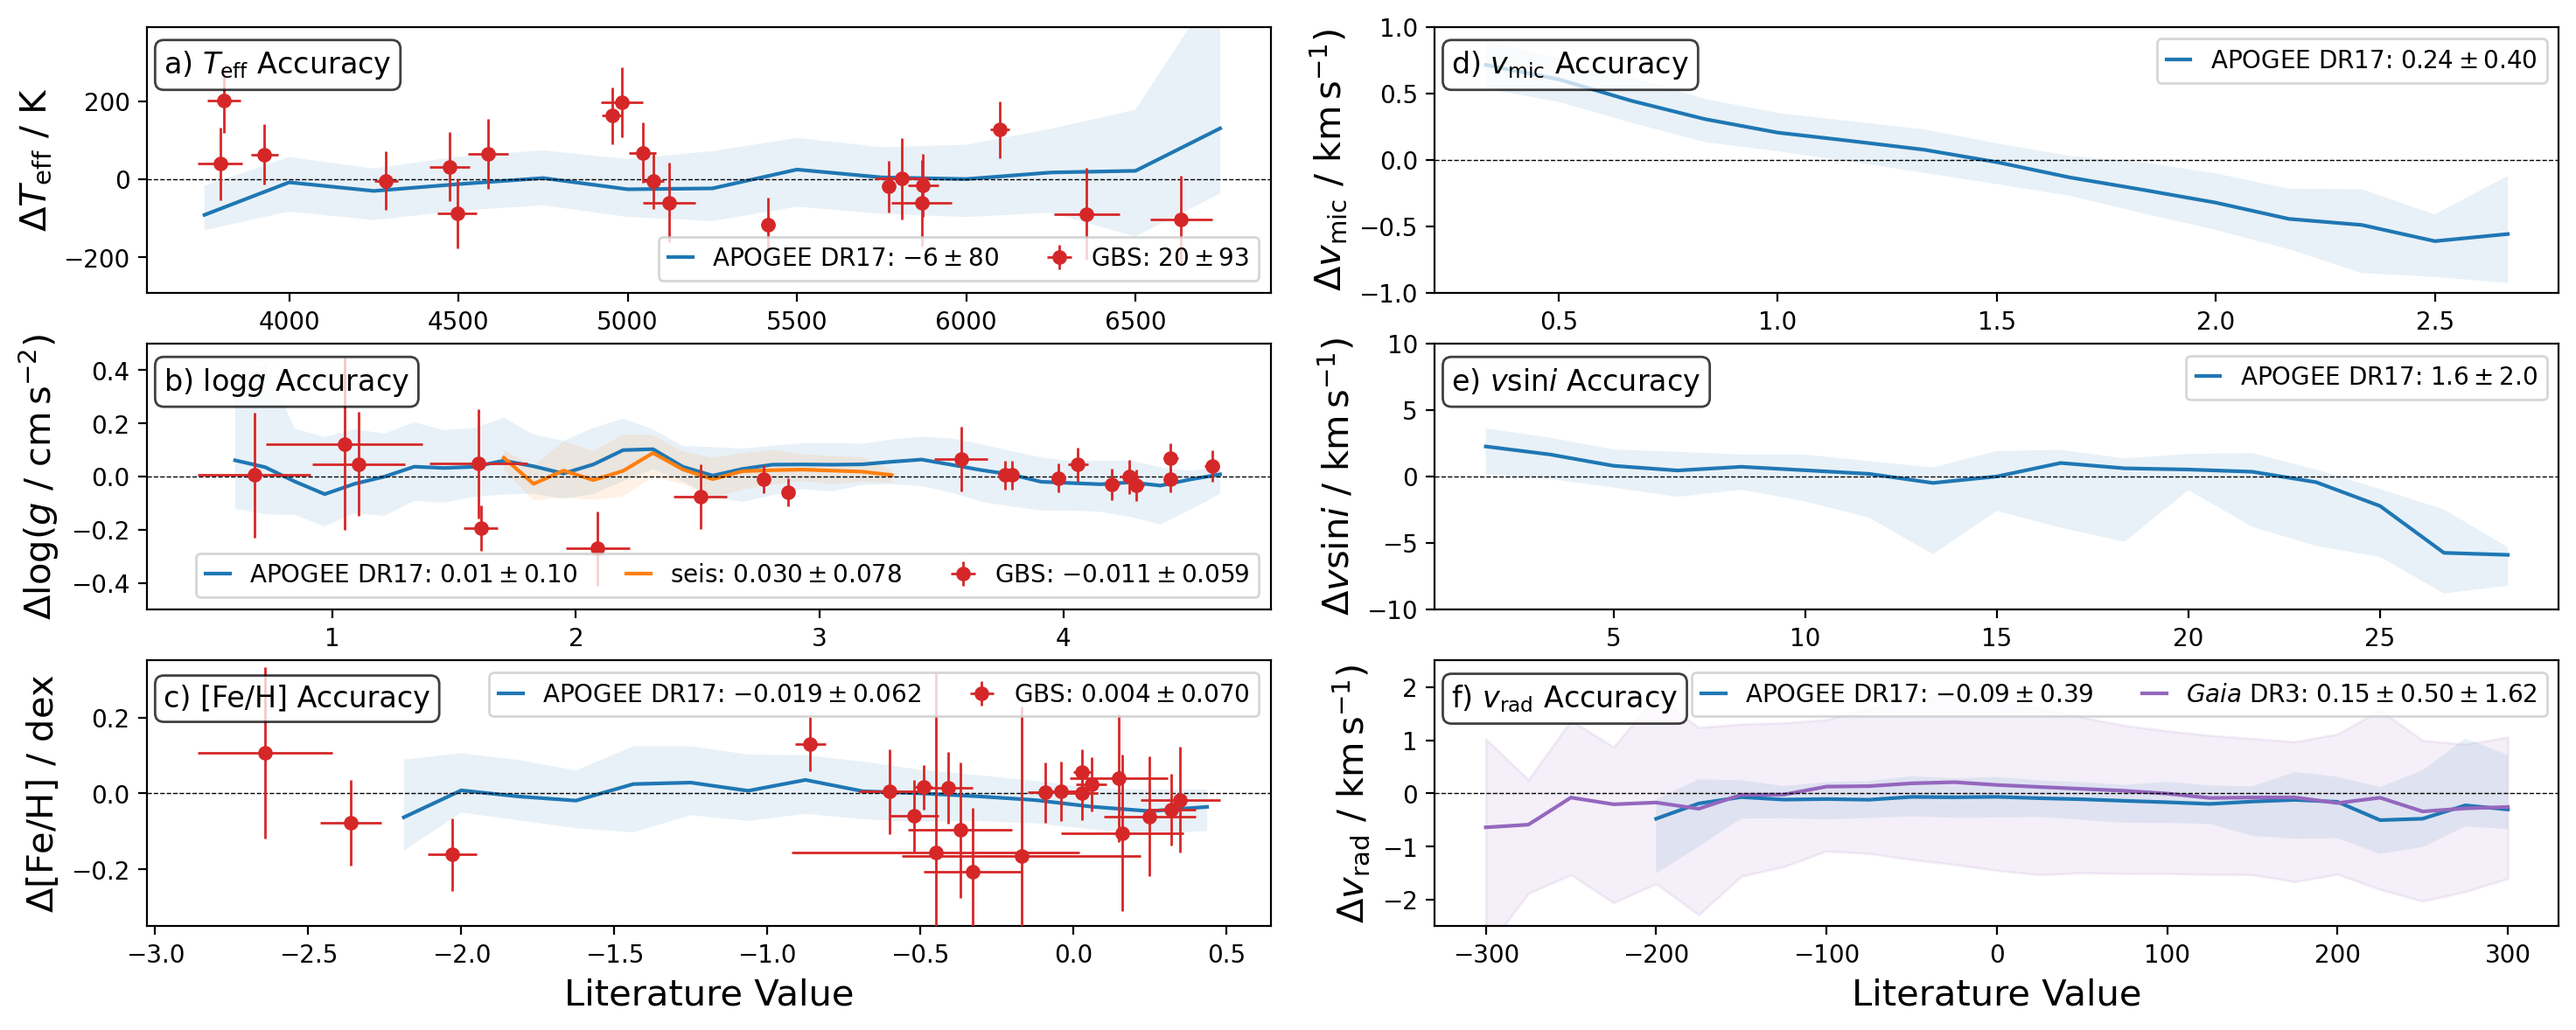
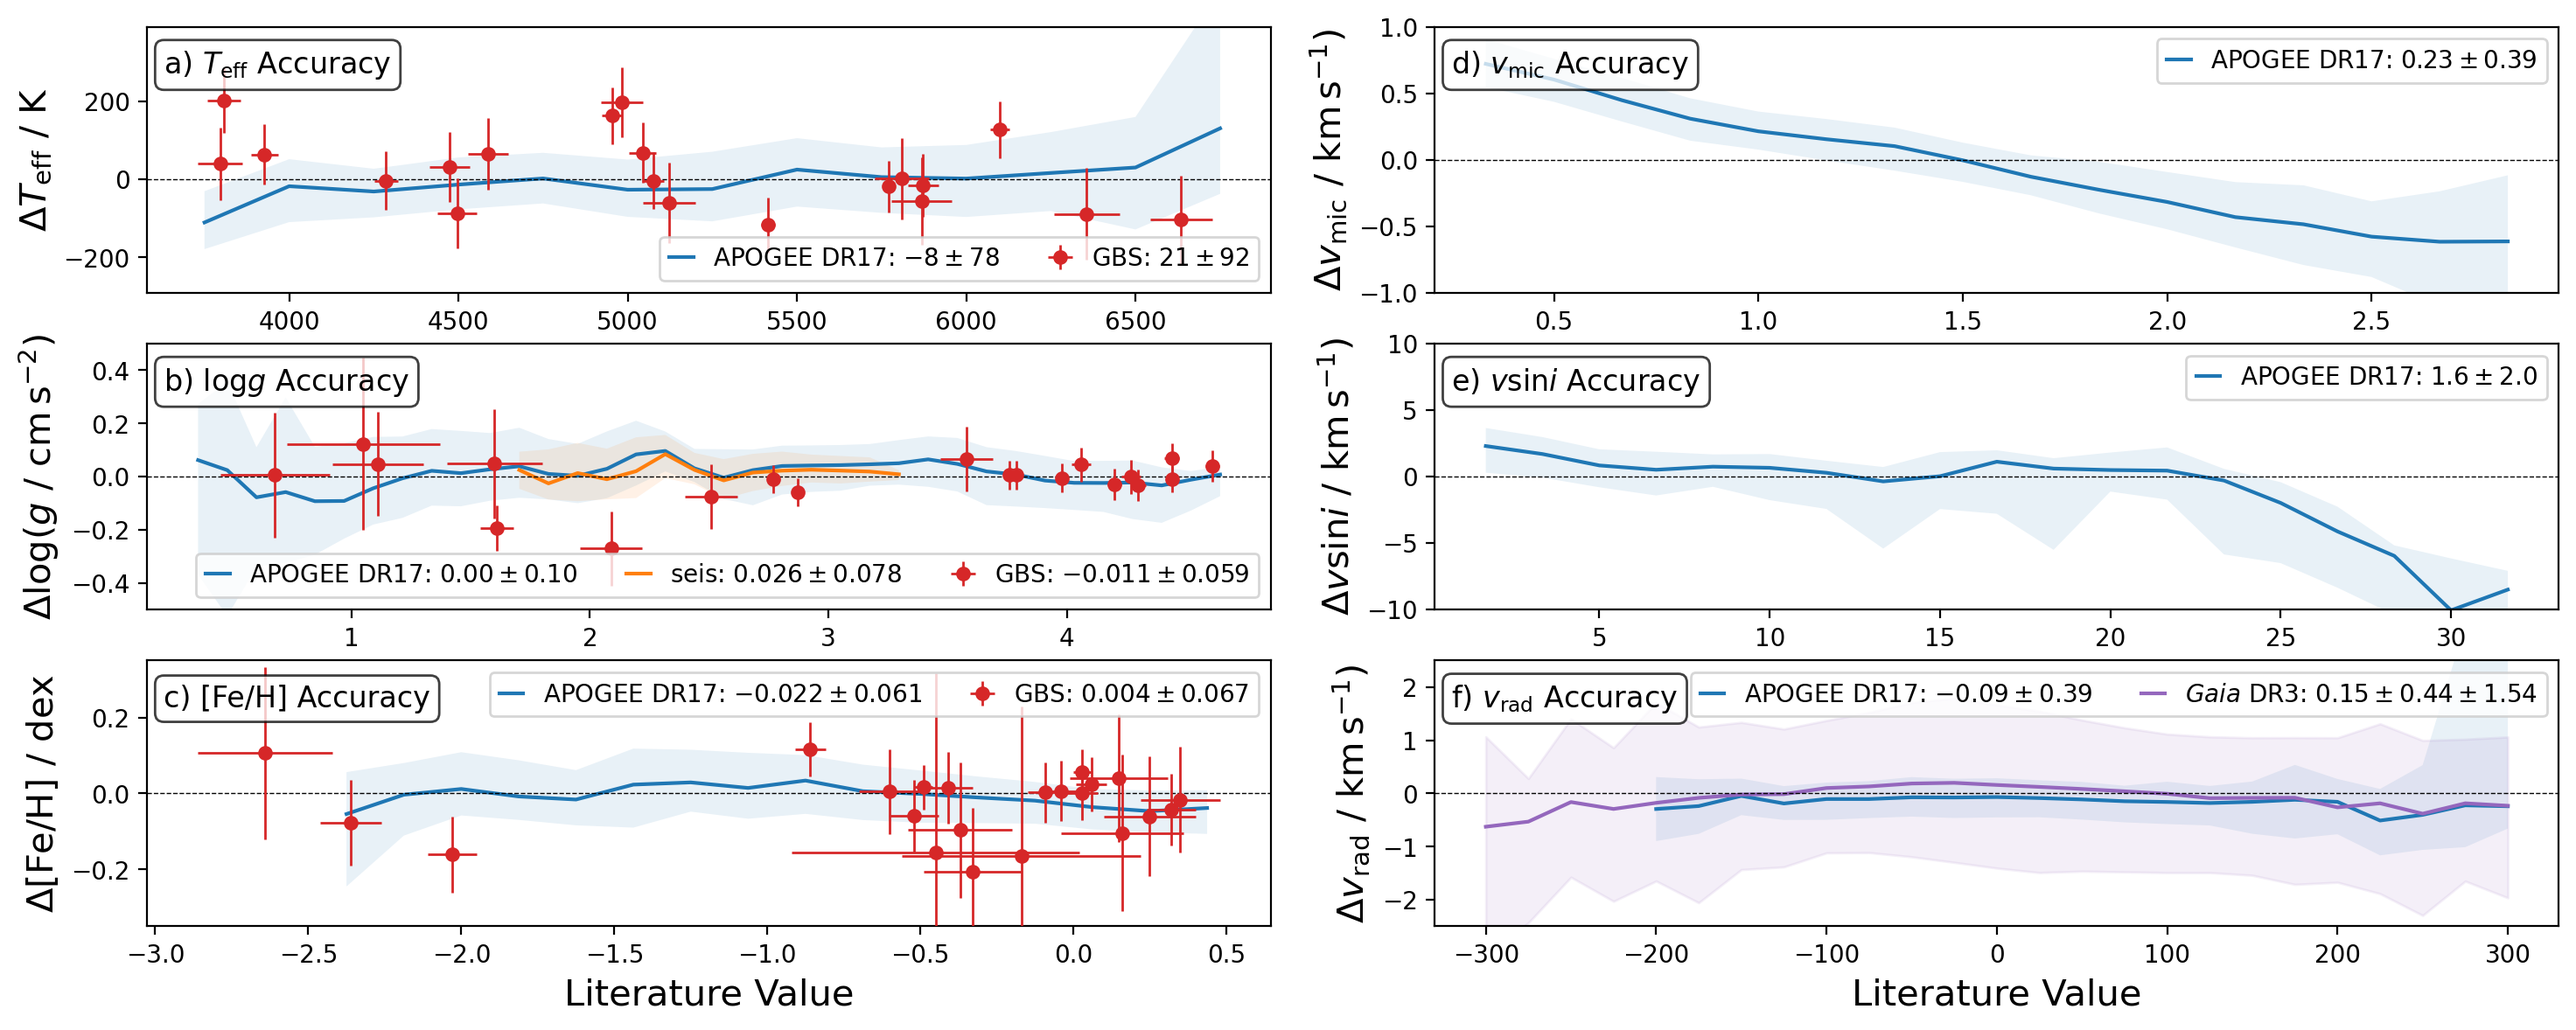
Updates from Overleaf

diff --git a/galah_dr4_paper.tex b/galah_dr4_paper.tex
@@ -67,13 +67,63 @@
 \title{The GALAH Survey: Data Release 4}
 
 \author{S. Buder}
-\affiliation{Research School of Astronomy \& Astrophysics, Australian National University, Canberra, ACT 2611, Australia}
-\affiliation{ARC Centre of Excellence for All Sky Astrophysics in 3 Dimensions (ASTRO 3D), Australia}
+\affiliation{Research School of Astronomy and Astrophysics, Australian National University, Canberra, ACT 2611, Australia}
+\alsoaffiliation{ARC Centre of Excellence for All Sky Astrophysics in 3 Dimensions (ASTRO 3D), Australia}
 \email[S. Buder]{sven.buder@anu.edu.au}
 
 \author{Main contributors}
-\author{survey builders}
-\author{other co-authors with significant contribution}
+\affiliation{To Be Decided. Including Janez Kos, Madeleine McKenzie, Ella Wang, Thomas Nordlander}
+
+\author{Joss Bland-Hawthorn}
+\affiliation{Sydney Institute for Astronomy, School of Physics, A28, The University of Sydney, NSW 2006, Australia}
+\alsoaffiliation{ARC Centre of Excellence for All Sky Astrophysics in 3 Dimensions (ASTRO 3D), Australia}
+
+\author{Gayandhi~M. De~Silva}
+\affiliation{Macquarie University Research Centre for Astronomy, Astrophysics and Astrophotonics, Sydney, NSW 2109, Australia}
+
+\author{Ken~C. Freeman}
+\affiliation{Research School of Astronomy and Astrophysics, Australian National University, Canberra, ACT 2611, Australia}
+\alsoaffiliation{ARC Centre of Excellence for All Sky Astrophysics in 3 Dimensions (ASTRO 3D), Australia}
+
+\author{Michael~R. Hayden}
+\affiliation{Sydney Institute for Astronomy, School of Physics, A28, The University of Sydney, NSW 2006, Australia}
+\alsoaffiliation{ARC Centre of Excellence for All Sky Astrophysics in 3 Dimensions (ASTRO 3D), Australia}
+
+\author{Janez Kos}
+\affiliation{Faculty of Mathematics and Physics, University of Ljubljana, Jadranska 19, 1000 Ljubljana, Slovenia}
+
+\author{Sarah~L. Martell}
+\affiliation{School of Physics, UNSW, Sydney, NSW 2052, Australia}
+\alsoaffiliation{ARC Centre of Excellence for All Sky Astrophysics in 3 Dimensions (ASTRO 3D), Australia}
+
+\author{Geraint~F. Lewis}
+\affiliation{Sydney Institute for Astronomy, School of Physics, A28, The University of Sydney, NSW 2006, Australia}
+
+\author{Karin Lind}
+\affiliation{Department of Astronomy, Stockholm University, AlbaNova University Centre, SE-106 91 Stockholm, Sweden}
+
+\author{Sanjib Sharma}
+\affiliation{Space Telescope Science Institute, 3700 San Martin Drive, Baltimore, MD, 21218, USA}
+
+\author{Jeffrey~D. Simpson}
+\affiliation{School of Physics, UNSW, Sydney, NSW 2052, Australia}
+\alsoaffiliation{ARC Centre of Excellence for All Sky Astrophysics in 3 Dimensions (ASTRO 3D), Australia}
+
+\author{Dennis Stello}
+\affiliation{School of Physics, UNSW, Sydney, NSW 2052, Australia}
+\alsoaffiliation{Sydney Institute for Astronomy, School of Physics, A28, The University of Sydney, NSW 2006, Australia}
+\alsoaffiliation{ARC Centre of Excellence for All Sky Astrophysics in 3 Dimensions (ASTRO 3D), Australia}
+\alsoaffiliation{Stellar Astrophysics Centre, Aarhus University, Ny Munkegade 120, DK-8000 Aarhus C, Denmark}
+
+\author{Daniel~B. Zucker}
+\affiliation{School of Mathematical and Physical Sciences, Macquarie University, Sydney, NSW 2109, Australia}
+\alsoaffiliation{Macquarie University Research Centre for Astronomy, Astrophysics and Astrophotonics, Sydney, NSW 2109, Australia}
+\alsoaffiliation{ARC Centre of Excellence for All Sky Astrophysics in 3 Dimensions (ASTRO 3D), Australia}
+
+\author{Toma\v{z} Zwitter}
+\affiliation{Faculty of Mathematics and Physics, University of Ljubljana, Jadranska 19, 1000 Ljubljana, Slovenia}
+
+\author{other co-authors with significant contribution, including Ioana Ciuc{\u{a}}, Kevin Beeson, Gregor Traven, Rok Vogrin{\v{c}}i{\v{c}}}
 \author{The GALAH Collaboration}
 % \alsoaffiliation{Joint first authors}
 
@@ -652,20 +702,22 @@ The difference between synthetic and observed Balmer line absorption holds valua
 \label{sec:uncertainty}
 %%%%%%%%%%%%%%%%%%%%%%%%%%%%%%%%%%%%%%%%%%%%%%%%%%%%%%%%%%%%%%%%%%%%%%%%%
 
+The uncertainties that we report for our spectroscopic data analysis are based on the covariance matrix of the fitting process. While we report the covariance matrix for each spectrum (see Fig.~\ref{fig:covariance_vesta_arcturus} for the covariance matrices of VESTA and Arcturus), we restrict ourselves to the standard deviations of each feature (square root values of the diagonal variance entries).
+
 \begin{table}
 \centering
-\caption{List of accuracy and representative precision uncertainties for stellar parameters of GALAH DR4. Precision values are extracted from our empirical precision uncertainty estimates for a spectrum with $SNR = 50$ of a star with stellar parameters \Teff, \logg, \feh.}
+\caption{List of accuracy and representative precision uncertainties for stellar parameters of GALAH DR4. Accuracy values are estimated from comparisons with literature references (see Fig.~\ref{fig:galah_dr4_validation_parameter_accuracy_allstar}). Precision values are extracted from the median covariance uncertainties for stars with $SNR = 50 \pm 10$ in CCD2 (see Fig.~\ref{fig:galah_dr4_precision_parameters}).}
 \label{tab:accuracy_precision}
 \begin{tabular}{ccc}
 \hline \hline
 Parameter / Unit & Accuracy & Precision ($SNR = 50$)\\
 \hline
-$T_\text{eff}~/~\mathrm{K}$          & 66     & X.X \\
-$\log (g~/~\mathrm{cm\,s^{-2}})$     &  0.042 & X.X \\
-$\mathrm{[Fe/H]}~/~\mathrm{dex}$     &  0.064 & X.X \\
-$v_\text{mic}~/~\mathrm{km\,s^{-1}}$ &  0.28  & X.X \\
-$v \sin i~/~\mathrm{km\,s^{-1}}$     &  1.4   & X.X \\
-$v_\text{rad}~/~\mathrm{km\,s^{-1}}$ &  0.15  & X.X \\
+$T_\text{eff}~/~\mathrm{K}$          & 66     & $23 \pm 5$ \\
+$\log (g~/~\mathrm{cm\,s^{-2}})$     &  0.042 & -- \\
+$\mathrm{[Fe/H]}~/~\mathrm{dex}$     &  0.064 & $0.025 \pm 0.004$ \\
+$v_\text{mic}~/~\mathrm{km\,s^{-1}}$ &  0.28  & $0.05 \pm 0.03$ \\
+$v \sin i~/~\mathrm{km\,s^{-1}}$     &  1.4   & $0.5 \pm 0.2$ \\
+$v_\text{rad}~/~\mathrm{km\,s^{-1}}$ &  0.15  & $0.17 \pm 0.02$ \\
 \hline
 \end{tabular}
 \end{table}
@@ -688,15 +740,15 @@ Estimating the accuracy of spectroscopic measurements has always been a complica
 
 \begin{figure*}[ht]
  \centering
- \includegraphics[width=\textwidth]{figures/galah_dr4_age_xfe_trends_solar_twins.png}
+ \includegraphics[width=\textwidth]{figures/galah_dr4_age_xfe_trends_solar_twins_allstar.png}
  \caption{\textbf{Solar twins}}
- \label{fig:galah_dr4_age_xfe_trends_solar_twins}
+ \label{fig:galah_dr4_age_xfe_trends_solar_twins_allstar}
 \end{figure*}
 
 
-\SB{Still to Do: Wide Binaries for Fig.~\ref{fig:galah_dr4_zeropoint_checks}}
+\SB{Still to Do: Wide Binaries for Fig.~\ref{fig:galah_dr4_zeropoint_checks_allstar}}
 
-Fig.~\ref{fig:galah_dr4_validation_parameter_accuracy_allstar} for stellar parameters and Fig.~\ref{fig:galah_dr4_zeropoint_checks} for abundances.
+Fig.~\ref{fig:galah_dr4_validation_parameter_accuracy_allstar} for stellar parameters and Fig.~\ref{fig:galah_dr4_zeropoint_checks_allstar} for abundances.
 
 \begin{figure*}[ht]
  \centering
@@ -717,12 +769,23 @@ Fig.~\ref{fig:galah_dr4_validation_parameter_accuracy_allstar} for stellar param
 \end{figure*}
 
 
+\begin{figure}
+ \centering
+ \includegraphics[width=\textwidth]{figures/galah_dr4_allstar_globular_cluster_feh_comparison.png}
+ \caption{\textbf{Comparison of iron abundances (16th, 50th and 84th percentiles) and overview of spectroscopic and photometric properties of globular cluster stars in GALAH DR4.}
+ \textbf{Left panels} show histograms of iron abundances from GALAH DR4 (blue) as well as literature estimates for the globular clusters from Giraffe (orange) and UVES (red) observations by \citep{Carretta2009, Carretta2009c} as well as observations from \cite{Johnson2010}.
+ \textbf{Middle panels} show the spectroscopic \Teff-\logg diagrams colored by iron abundance {[Fe/H]}.
+ \textbf{Right panels} show the \Gaia DR3 color absolute magnitude diagrams.
+}
+ \label{fig:galah_dr4_allstar_globular_cluster_feh_comparison}
+\end{figure}
+
 
 \begin{figure*}[ht]
  \centering
- \includegraphics[width=\textwidth]{figures/galah_dr4_zeropoint_checks.png}
+ \includegraphics[width=\textwidth]{figures/galah_dr4_zeropoint_checks_allstar.png}
  \caption{\textbf{Zeropoint estimates of elemental abundances for GALAH DR4.}. Each panel shows the comparison to literare (DR4 - literature) for VESTA (blue), \Gaia FKG Benchmark Stars (orange), Stars with $\vert \mathrm{[Fe/H]} \vert \leq 0.1$ closer than $D_\varpi < 0.5\,\mathrm{kpc}$ (red), as well as the overlap with APOGEE DR17 (purple).}
- \label{fig:galah_dr4_zeropoint_checks}
+ \label{fig:galah_dr4_zeropoint_checks_allstar}
 \end{figure*}
 
 \begin{itemize}
@@ -731,16 +794,24 @@ Fig.~\ref{fig:galah_dr4_validation_parameter_accuracy_allstar} for stellar param
     \item K2/TESS \citet{Zinn2020} Fig.~\ref{fig:galah_dr4_validation_parameter_accuracy_allstar}b
     \item APOGEE DR17 Fig.~\ref{fig:galah_dr4_validation_parameter_accuracy_allstar}a-f
     \item \Gaia DR3 for \vrad Fig.~\ref{fig:galah_dr4_validation_parameter_accuracy_allstar}f
-    \item Globular Clusters for low [Fe/H] accuracy
+    \item Globular Clusters for low [Fe/H] accuracy Fig.~\ref{fig:galah_dr4_allstar_globular_cluster_feh_comparison}
     \begin{itemize}
-        \item \citet{Carretta2009, Carretta2009b}
+        \item 47 Tuc \citet{Carretta2009, Carretta2009b}
+        \item NGC 6362
+        \item M4
+        \item NGC 362 \citet{Monty2023}?
+        \item NGC 288 \citet{Monty2023}?
+        \item NGC 1851
+        \item M2 NGC 7089, with 3 populations in [Fe/H] according to \citet{Yong2014}. 21331790-0048198 was even observed by \citet{Yong2014} as NR 79 / HI-104 with $\mathrm{[Fe/H]} = -1.69$. We get $-1.37 \pm 0.26$, but at SNR around 10.
         \item Omega Cen \cite{Johnson2010}
-        \item M30 (Gruyters?)
+        \item NGC 6397 \citet{Carretta2009, Carretta2009b}
+        \item M30 \citet{Carretta2009, Carretta2009b}
     \end{itemize}
     \item Abundance Zeropoints
     \begin{itemize}
         \item VESTA
         \item APOGEE DR17
+        \item Solar Twins
         \item  M~67, Ruprecht~147 and a few others cover stars across several evolutionary stages. Check them roughly (could also be problematic because of atomic diffusion etc.)
     \end{itemize}
 
@@ -1127,6 +1198,14 @@ lbol	&	float32	&	Bolometric Luminosity used for calculating logg(plx)	&		\\
 
 \section{CAVEATS AND FUTURE IMPROVEMENTS} \label{sec:caveats}
 
+\subsection{Actual Bugs}
+
+\texttt{flag\_fe\_h} was computed similar to the elemental abundances, that is by comparing the best-fit spectrum with a spectrum with the lowest grid value. In the case of [Fe/H], however, this is incorrect. It can lead to a comparison of a spectrum with -0.74 to one with -0.75, which can easily be too similar within the SNR range. Wrongfully affecting 34\% of stars and making the flag useless.
+
+\subsection{Rerunning?}
+
+neglecting ccds with flux uncertainty below 0 for more than 5\% of spectra. test cases were 200514003201389 and 200514002701209. Is there a way to identify these stars more systematically? These were found because their [Mg/Fe] maxed out without any reason or flag\_sp raised. Is it only 200514?
+
 \subsection{Limitations of our implemented multiple neural networks}
 
 \subsubsection{Consistency between models and noding in the 3Ddomain}
@@ -1134,6 +1213,10 @@ lbol	&	float32	&	Bolometric Luminosity used for calculating logg(plx)	&		\\
 \subsubsection{Flexibility of our neural network implementation for extreme abundances}
 
 While this approach has proved to be powerful for all elements across their abundance ranges, we have noticed sinusoidal shapes for weak Li lines \citep[see also][]{Wang2020}. This is likely caused by the large dynamical range that has to be covered by the neural network of $0 < \mathrm{A(Li)} < 4$. \SB{Elaborate on this! Ella's EW estimation code will limit the impact of this caveat!}
+
+\subsubsection{Coverage of chemical compositions}
+
+Before the neural networks are computed, it should actually be tested, what the abundance zeropoints are. In the case of several elements, like Na, Al, Eu, they were significant on the order of 0.2-0.3dex. In that case, stars with high abundances of 0.7-0.8 dex are not be sufficiently covered, although expected (e.g. in old stars and especially globular clusters). -> rerun neural networks for these cases?
 
 \subsection{Which analysis setup should be used?}
 
